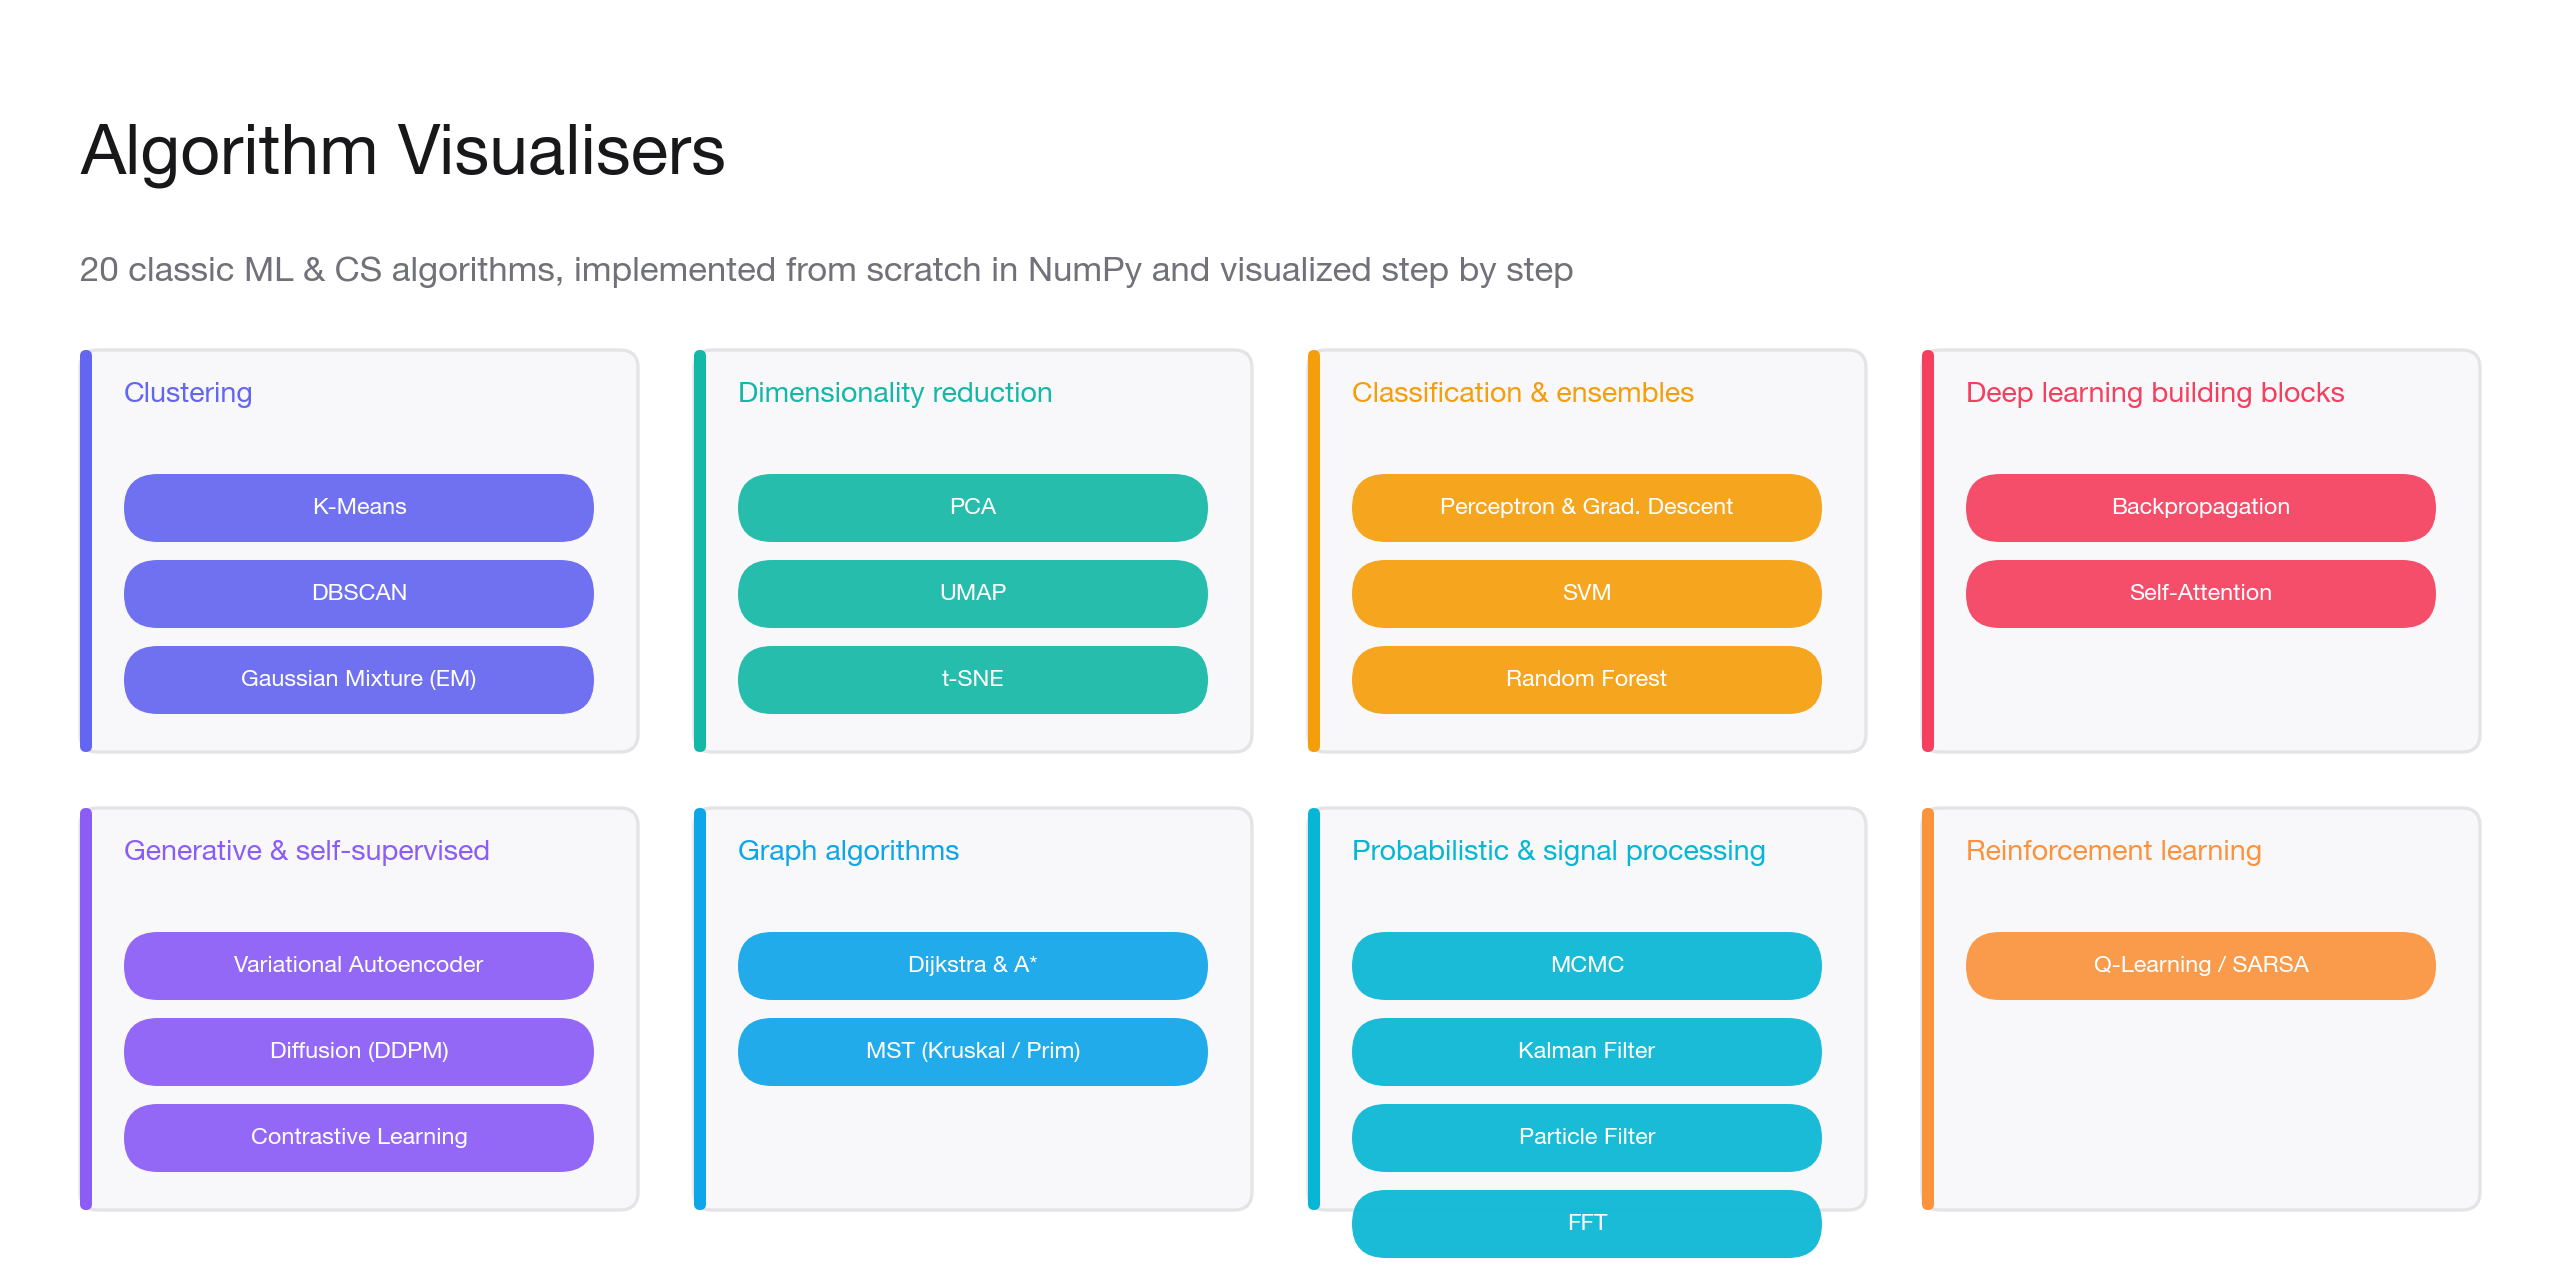
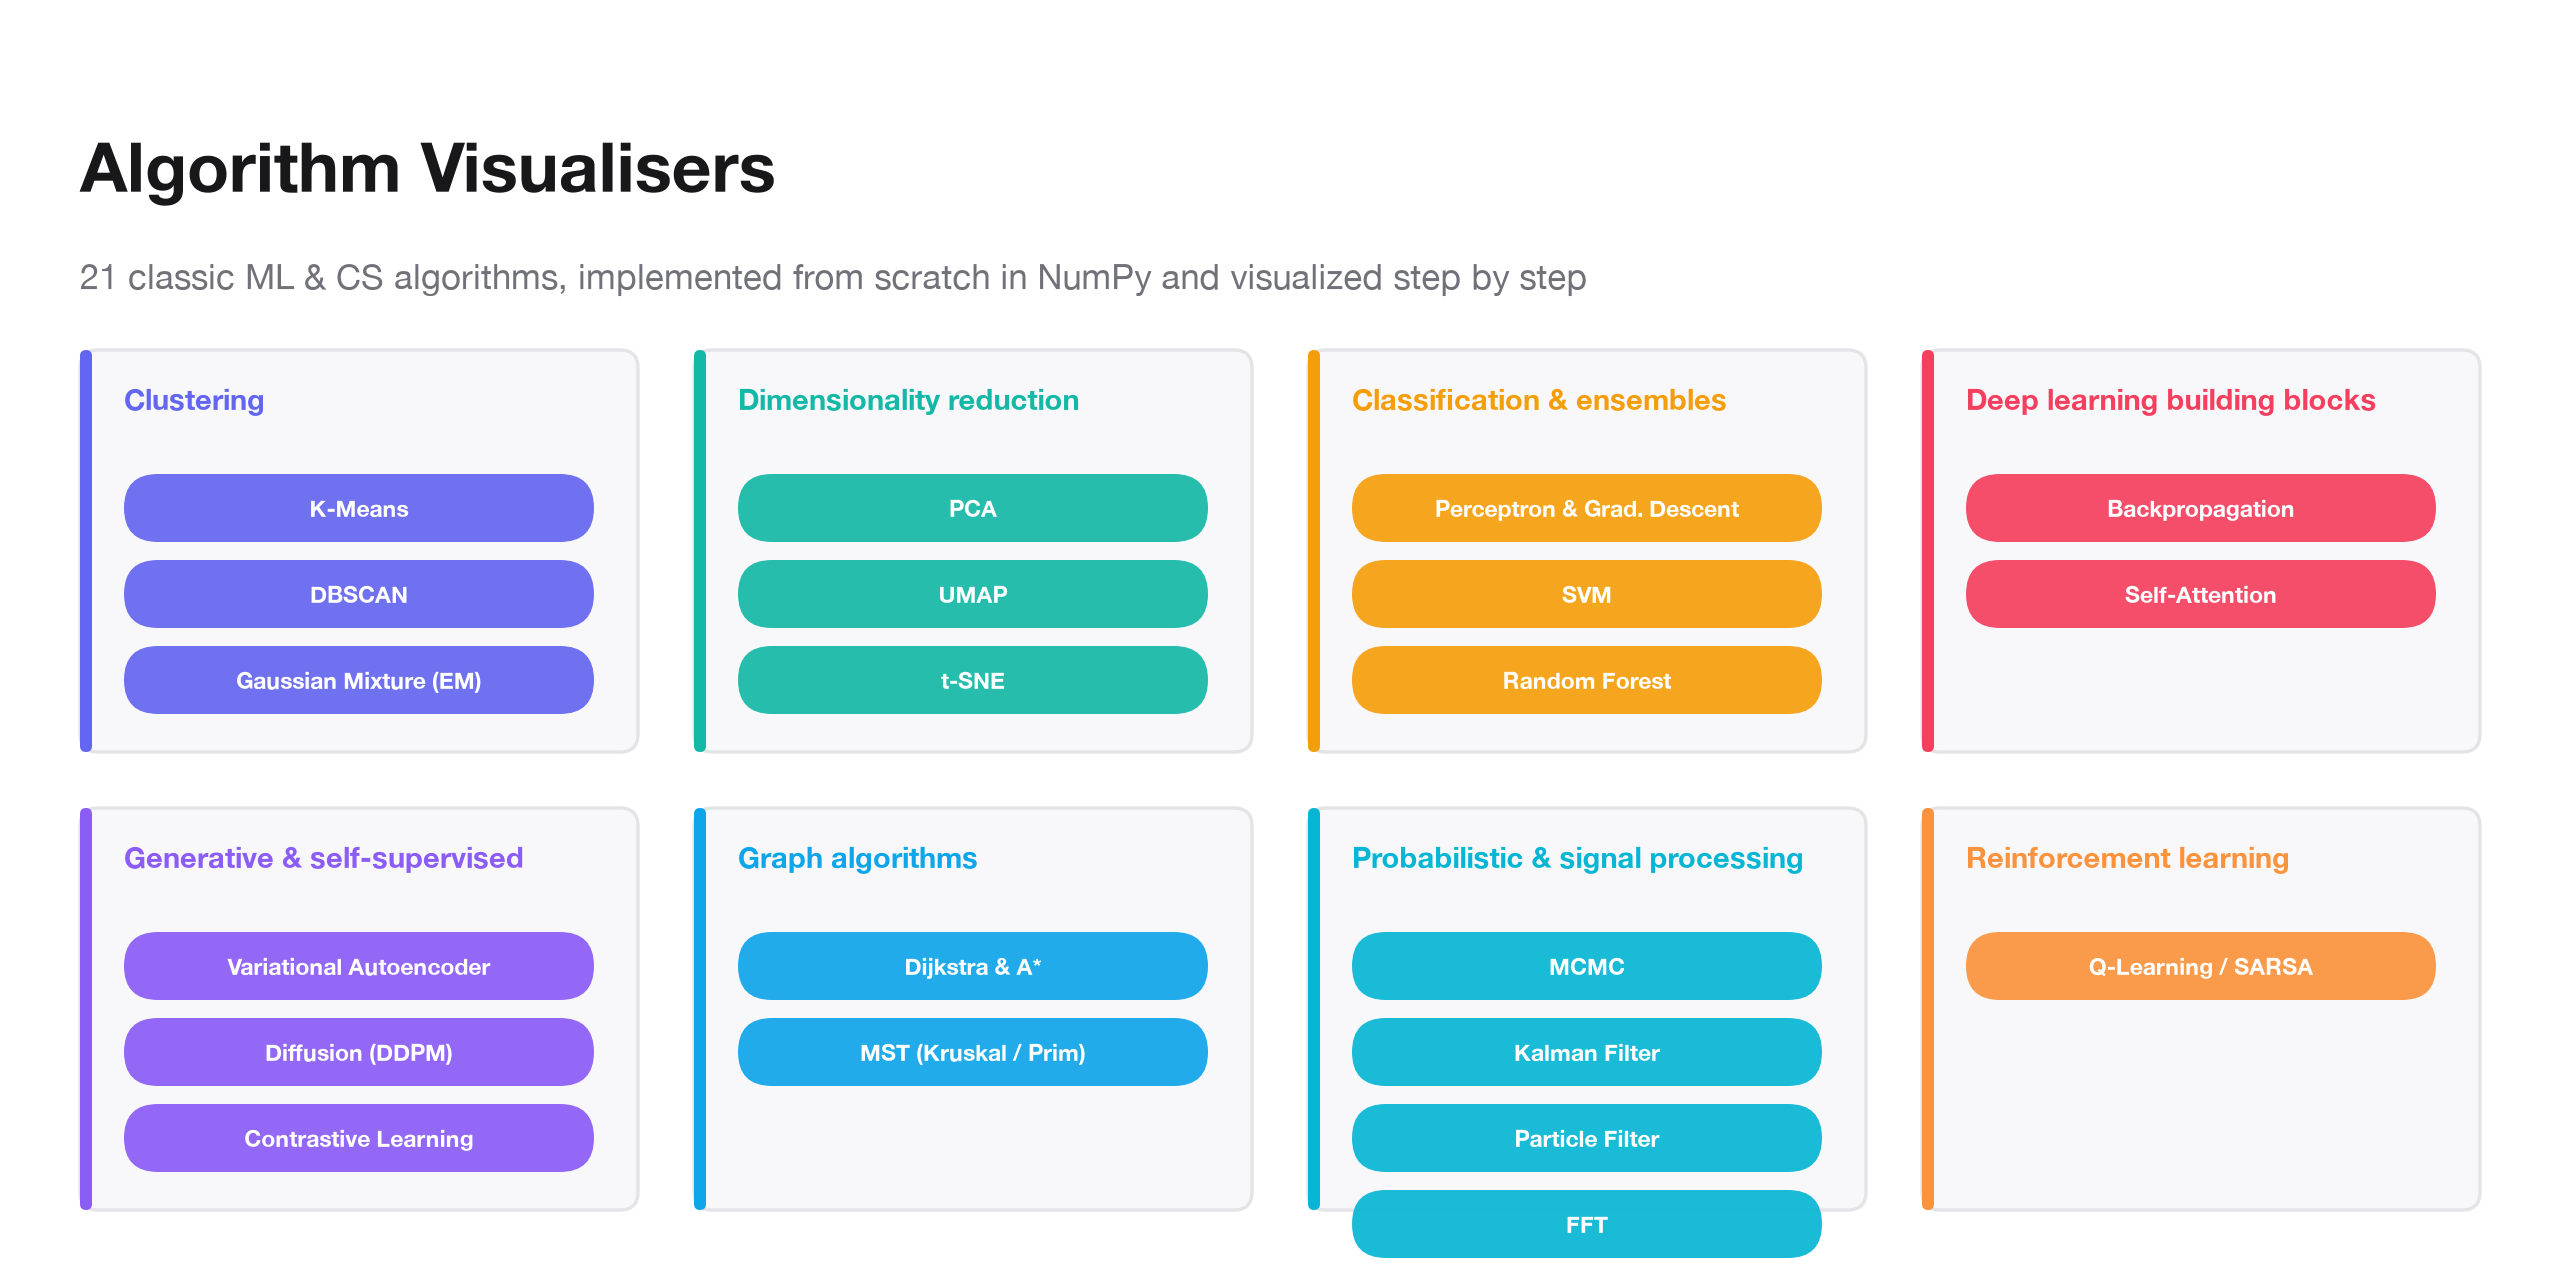
Full-app correctness review: fix a real GMM bug, a broken Cliff Walking demo, and the known stale "20 vs 21" inconsistency
Same review process just run on three sibling Quarto-book repos, adapted
for a Streamlit app with no automated test suite (confirmed in
CLAUDE.md) -- verification here meant actually launching the app,
clicking through all 21 pages plus testing autoplay, and independently
re-deriving/numerically checking each algorithm's math via standalone
scripts, rather than checking prose against a rendered book.

Fixed the app's own already-documented, not-yet-fixed bug first: Home.py's
hero title/caption hardcoded "20 classic algorithms" while the line right
below it computed the real count dynamically and correctly said "21
algorithms across 8 categories" -- the home page contradicted itself
within a few lines. Made the hero copy read from CATALOGUE like the meta
line already did, and fixed the same stale "20" in README.md,
pyproject.toml, and the social-preview banner generator (regenerated the
image).

Four parallel reviews then covered all 21 algorithms' algorithm.py/
data.py/visualize.py/apps/<algo>.py, numerically verifying math wherever
practical (finite-difference gradient checks for t-SNE/perceptron/VAE/
contrastive/backprop -- including actually substantiating backprop's own
"numerically verified" claim, which had no live check anywhere in the
repo; FFT vs. numpy.fft; MST vs. an independent reference implementation;
DBSCAN vs. brute-force classification; A*'s heuristic admissibility).
Found:

- A real algorithm bug in gmmviz/algorithm.py: when a GMM component's
[…]

diff --git a/qlearning/data.py b/qlearning/data.py
@@ -61,13 +61,25 @@ class GridWorld:
     rows: int
     cols: int
     name: str
+    # False (default) = grid-world-mdp's 80/10/10 slip model. True = actions
+    # always succeed as intended. Cliff Walking (Example 6.6 in Sutton &
+    # Barto) is defined with deterministic transitions — the "Q-learning
+    # hugs the edge, SARSA backs off a row" result is specifically a
+    # consequence of on-/off-policy TD targets differing under *exploration*
+    # noise (epsilon-greedy), not environment noise. Adding slip on top
+    # makes stepping near the cliff risky regardless of which policy is
+    # being followed, which changes the Bellman-optimal policy itself and
+    # erases the effect this preset exists to demonstrate.
+    deterministic: bool = False
 
 
 def _empty_kind_grid(rows: int, cols: int) -> np.ndarray:
     return np.full((rows, cols), "empty", dtype=object)
 
 
-def _finalize(kind: np.ndarray, start: Cell, step_reward: float, name: str) -> GridWorld:
+def _finalize(
+    kind: np.ndarray, start: Cell, step_reward: float, name: str, *, deterministic: bool = False
+) -> GridWorld:
     rows, cols = kind.shape
     kind = kind.copy()
     kind[start] = "start"
@@ -86,6 +98,7 @@ def _finalize(kind: np.ndarray, start: Cell, step_reward: float, name: str) -> G
     return GridWorld(
         kind=kind, reward=reward, terminal=terminal, respawn=respawn,
         start=start, step_reward=step_reward, rows=rows, cols=cols, name=name,
+        deterministic=deterministic,
     )
 
 
@@ -111,16 +124,17 @@ def make_cliff(rows: int = 4, cols: int = 12) -> GridWorld:
     stepping off the cliff costs -100 and resets to start (episode keeps
     going). This is the textbook example where Q-learning (off-policy)
     converges to the optimal path hugging the cliff edge, while SARSA
-    (on-policy) learns a safer route one row up — because SARSA's target
-    uses the action epsilon-greedy exploration will *actually* take next,
-    which occasionally steps off the edge during training."""
+    (on-policy) learns a safer route further from the edge — because
+    SARSA's target uses the action epsilon-greedy exploration will
+    *actually* take next, which occasionally steps off the edge during
+    training."""
     rows = max(rows, 3)
     cols = max(cols, 4)
     kind = _empty_kind_grid(rows, cols)
     kind[rows - 1, 1:cols - 1] = "cliff"
     start = (rows - 1, 0)
     kind[rows - 1, cols - 1] = "goal"
-    return _finalize(kind, start, step_reward=-1.0, name="Cliff walk")
+    return _finalize(kind, start, step_reward=-1.0, name="Cliff walk", deterministic=True)
 
 
 def _bfs_reachable(terminal_ok: np.ndarray, start: Cell, blocked: np.ndarray) -> bool:

diff --git a/Home.py b/Home.py
@@ -34,7 +34,7 @@ CATALOGUE = {
         ("apps/tsne.py", "t-SNE", "KL-divergence descent on affinities"),
     ],
     "Classification & ensembles": [
-        ("apps/perceptron.py", "Perceptron & Gradient Descent", "SGD / momentum / Adam optimisers"),
+        ("apps/perceptron.py", "Perceptron & Gradient Descent", "Vanilla GD / momentum / Adam optimisers"),
         ("apps/svm.py", "Support Vector Machine", "Soft-margin kernel SVM via SMO"),
         ("apps/random_forest.py", "Random Forest", "Bagging, feature subsampling, OOB error"),
     ],
@@ -161,16 +161,17 @@ def _home_page() -> None:
     </style>
     """, unsafe_allow_html=True)
 
+    n_algos = sum(len(items) for items in CATALOGUE.values())
+
     st.markdown("<p class='hero-eyebrow'>ALGORITHM VISUALISER PORTFOLIO</p>", unsafe_allow_html=True)
-    st.title("20 classic algorithms, visualized step by step")
+    st.title(f"{n_algos} classic algorithms, visualized step by step")
     st.caption(
-        "Step-by-step, interactive visualizations of 20 classic algorithms — spanning "
+        f"Step-by-step, interactive visualizations of {n_algos} classic algorithms — spanning "
         "clustering, deep learning, graph search, and more. Each one is implemented "
         "from scratch in NumPy, so what you're watching is the actual math, not a "
         "black box."
     )
 
-    n_algos = sum(len(items) for items in CATALOGUE.values())
     st.markdown(
         f"<p class='hero-meta'>{n_algos} algorithms across {len(CATALOGUE)} categories</p>",
         unsafe_allow_html=True,

diff --git a/mst/algorithm.py b/mst/algorithm.py
@@ -245,15 +245,23 @@ def prim(positions: np.ndarray, edges: list[Edge], start: int = 0, frontier_limi
     total = 0.0
 
     def preview() -> list[Edge]:
-        """Best few live (non-stale, non-tree-internal) crossing edges."""
-        seen: set[int] = set()
-        live: list[Edge] = []
+        """Best few live (non-stale, non-tree-internal) crossing edges.
+
+        `heap` is only *heap-ordered* (heap[0] is the global min; nothing
+        guarantees element i comes before element j for i < j otherwise), and
+        it can contain several stale entries to the same outside node `v`
+        left over from earlier pushes. Deduping by "first entry seen in the
+        raw array" would silently keep whichever stale (possibly larger)
+        weight happens to appear first, rather than the true cheapest edge to
+        `v` — so track the minimum weight per node explicitly instead.
+        """
+        best: dict[int, Edge] = {}
         for w, u, v in heap:
-            if v in seen or in_tree[v]:
+            if in_tree[v]:
                 continue
-            seen.add(v)
-            live.append(Edge(u, v, w))
-        live.sort(key=lambda e: e.w)
+            if v not in best or w < best[v].w:
+                best[v] = Edge(u, v, w)
+        live = sorted(best.values(), key=lambda e: e.w)
         return live[:frontier_limit]
 
     snapshots: list[Snapshot] = [

diff --git a/apps/qlearning.py b/apps/qlearning.py
@@ -118,7 +118,7 @@ with col_params:
                  "costs −1, falling off the cliff costs −100 and resets you to "
                  "start. Watch **Q-learning** converge to the risky optimal path "
                  "hugging the cliff edge, while **SARSA** learns a safer route "
-                 "one row back — enable the comparison below to see both at once.",
+                 "further from the edge — enable the comparison below to see both at once.",
         "random_hazards": "**Random hazards** — a fresh scattered layout of "
                    "resources and hazards per seed. Change the seed and press "
                    "**Regenerate & retrain** for a brand-new layout to learn.",
@@ -243,7 +243,7 @@ with col_main:
     # -------------------------------------------------------------------
     @st.fragment
     def _playback() -> None:
-        step_idx: int = min(st.session_state.get(_k("step_idx"), 0), n_steps - 1)
+        step_idx: int = max(0, min(st.session_state.get(_k("step_idx"), 0), n_steps - 1))
         playing: bool = st.session_state.get(_k("playing"), False)
 
         with st.container(border=True):

diff --git a/gmmviz/algorithm.py b/gmmviz/algorithm.py
@@ -27,7 +27,15 @@ def _log_gaussian_pdf(X: np.ndarray, mean: np.ndarray, cov: np.ndarray) -> np.nd
     xc = X - mean
     sign, logdet = np.linalg.slogdet(cov)
     if sign <= 0:
-        logdet = -1e6
+        # Degenerate/non-PD covariance: force this component's density toward
+        # zero (very negative log-density), not toward infinity. Since
+        # log N(x) = -0.5*(d*log(2*pi) + logdet + quad), a large positive
+        # sentinel here makes the bracket large and positive, so the -0.5
+        # factor makes the log-density very negative — the correct direction.
+        # (A large *negative* sentinel, as previously used, did the opposite:
+        # it made this invalid component's log-density enormous and positive,
+        # letting it wrongly dominate the E-step responsibilities.)
+        logdet = 1e6
     cov_inv = np.linalg.inv(cov)
     quad = np.sum(xc @ cov_inv * xc, axis=1)
     return -0.5 * (d * np.log(2 * np.pi) + logdet + quad)

diff --git a/qlearning/algorithm.py b/qlearning/algorithm.py
@@ -109,9 +109,11 @@ def env_step(
 
     Returns (next_state, reward, done, actual_action). Landing on a
     "respawn" cell (the cliff) applies its reward but snaps the agent
-    back to start without ending the episode.
+    back to start without ending the episode. If `grid.deterministic` is
+    set (Cliff Walking), the intended action always succeeds — see the
+    field's docstring in data.py for why this preset needs that.
     """
-    actual_action = _slip(action, rng)
+    actual_action = action if grid.deterministic else _slip(action, rng)
     next_state = _move(state, actual_action, grid.rows, grid.cols)
     reward = float(grid.reward[next_state])
     done = bool(grid.terminal[next_state])

diff --git a/apps/umap.py b/apps/umap.py
@@ -249,7 +249,7 @@ with col_main:
                 st.markdown("Low-dimensional pairwise kernel ")
                 st.latex(r"q_{ij} = 1/\bigl(1 + a \,\lVert y_i - y_j \rVert^{2b}\bigr)")
                 st.caption("(a, b) fitted to match min_dist & spread — same convention as umap-learn.")
-                st.markdown("**High-D preview** — variance along first two PCs of **X**:")
+                st.markdown("**High-D preview** — top singular values of centered **X**:")
                 xv = X - X.mean(0, keepdims=True)
                 _, s, _ = np.linalg.svd(xv, full_matrices=False)
                 st.code(f"Top singular values (relative): {s[0]:.3f}, {s[1]:.3f}, …", language=None)

diff --git a/particle_filter/algorithm.py b/particle_filter/algorithm.py
@@ -184,6 +184,13 @@ def fit(
                 particles=particles.copy(),
                 weights=weights.copy(),
                 true_pos=true_positions[k],
+                # Predict never touches weights, so ESS is unchanged from the
+                # previous snapshot — but it must still be *computed* here
+                # rather than left at the dataclass default of 0.0, or the
+                # page's "Effective sample size" metric would misleadingly
+                # show 0 on every predict frame (implying total collapse)
+                # right before snapping back up on the next update.
+                ess=float(1.0 / np.sum(weights ** 2)),
             )
         )
 

diff --git a/apps/mcmc.py b/apps/mcmc.py
@@ -260,7 +260,7 @@ with col_main:
 - **Top-right** — the trace plot. Flat stretches mean rejected proposals; a slowly wandering
   line (rather than a jittery one) is the visual signature of *poor mixing*.
 - **Bottom-left** — the growing histogram of visited x-coordinates against the true marginal
-  density (green). Watch it converge as the chain runs longer.
+  density (teal). Watch it converge as the chain runs longer.
 - **Bottom-right** — autocorrelation of the x-coordinate. Fast decay to ~0 means samples
   become independent quickly; slow decay means you need many more steps for the same
   effective sample size.

diff --git a/scripts/social_preview.py b/scripts/social_preview.py
@@ -64,9 +64,10 @@ def main() -> None:
     fig.subplots_adjust(left=0, right=1, top=1, bottom=0)
 
     # Header.
+    n_algos = sum(len(algos) for _, algos in CATALOGUE.values())
     ax.text(0.4, 0.62, "Algorithm Visualisers", fontsize=25, fontweight="bold",
              color=INK, ha="left", va="top")
-    ax.text(0.4, 1.28, "20 classic ML & CS algorithms, implemented from scratch "
+    ax.text(0.4, 1.28, f"{n_algos} classic ML & CS algorithms, implemented from scratch "
                         "in NumPy and visualized step by step",
             fontsize=12.5, color=INK_SOFT, ha="left", va="top")
 

diff --git a/README.md b/README.md
@@ -1,8 +1,8 @@
 # Algorithm Visualisers
 
-![Algorithm Visualisers — 20 classic ML & CS algorithms grouped by category](docs/social-preview.png)
+![Algorithm Visualisers — 21 classic ML & CS algorithms grouped by category](docs/social-preview.png)
 
-20 classic machine-learning and CS algorithms, each implemented **from scratch in NumPy** (no scikit-learn, no PyTorch in the core algorithm) and paired with an interactive **Streamlit + Plotly** step-by-step walkthrough — all in one categorized multipage app.
+21 classic machine-learning and CS algorithms, each implemented **from scratch in NumPy** (no scikit-learn, no PyTorch in the core algorithm) and paired with an interactive **Streamlit + Plotly** step-by-step walkthrough — all in one categorized multipage app.
 
 **Live demo: [algorithm-visualizers.streamlit.app](https://algorithm-visualizers.streamlit.app/)**
 
